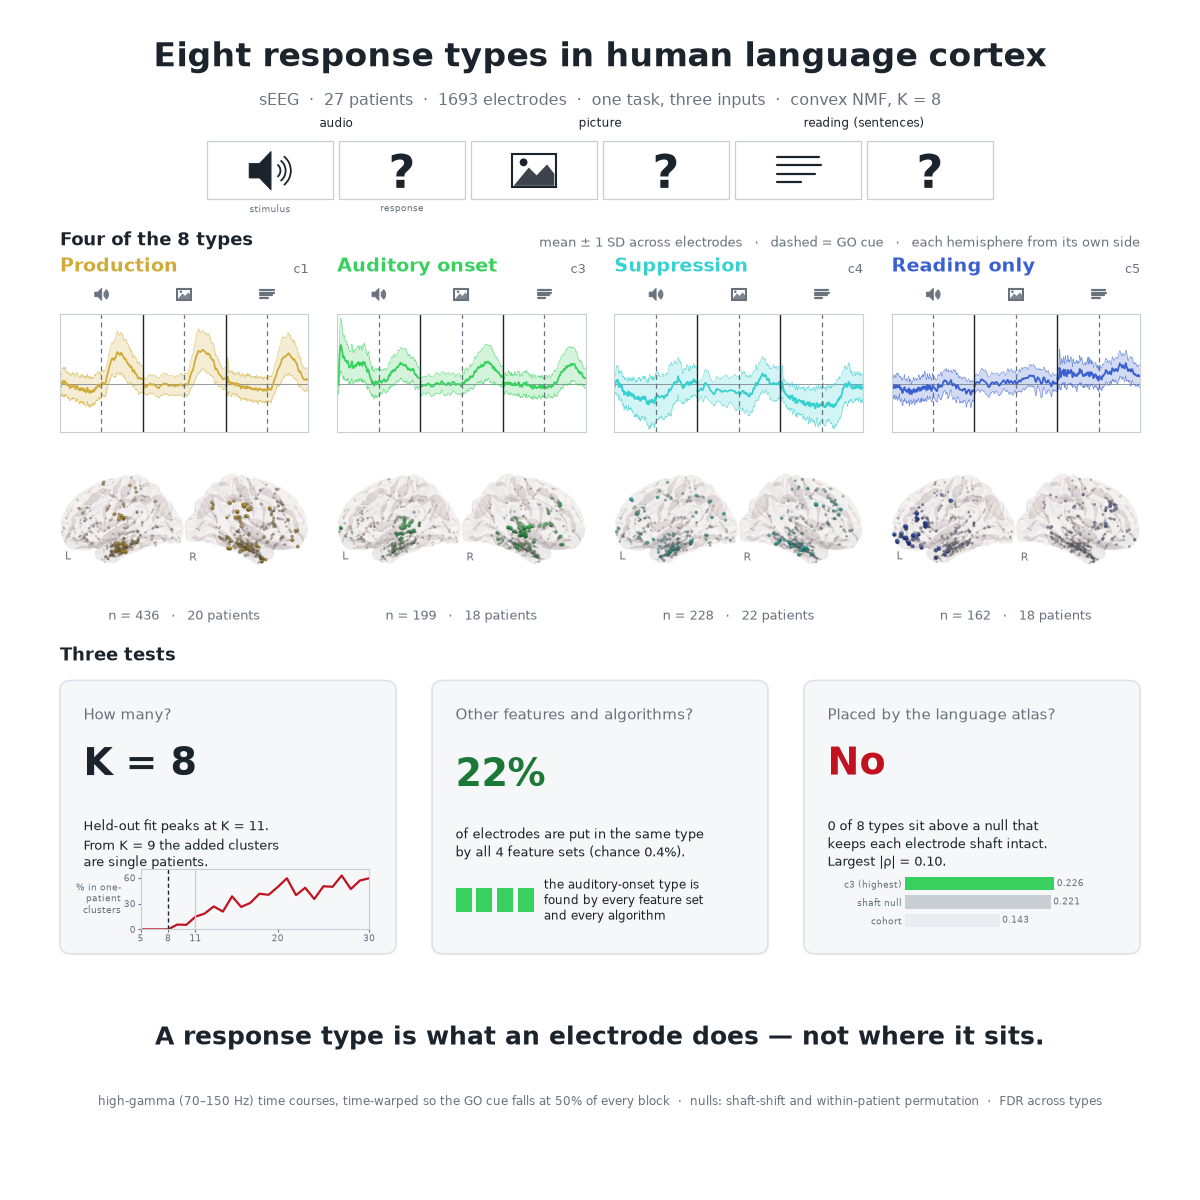
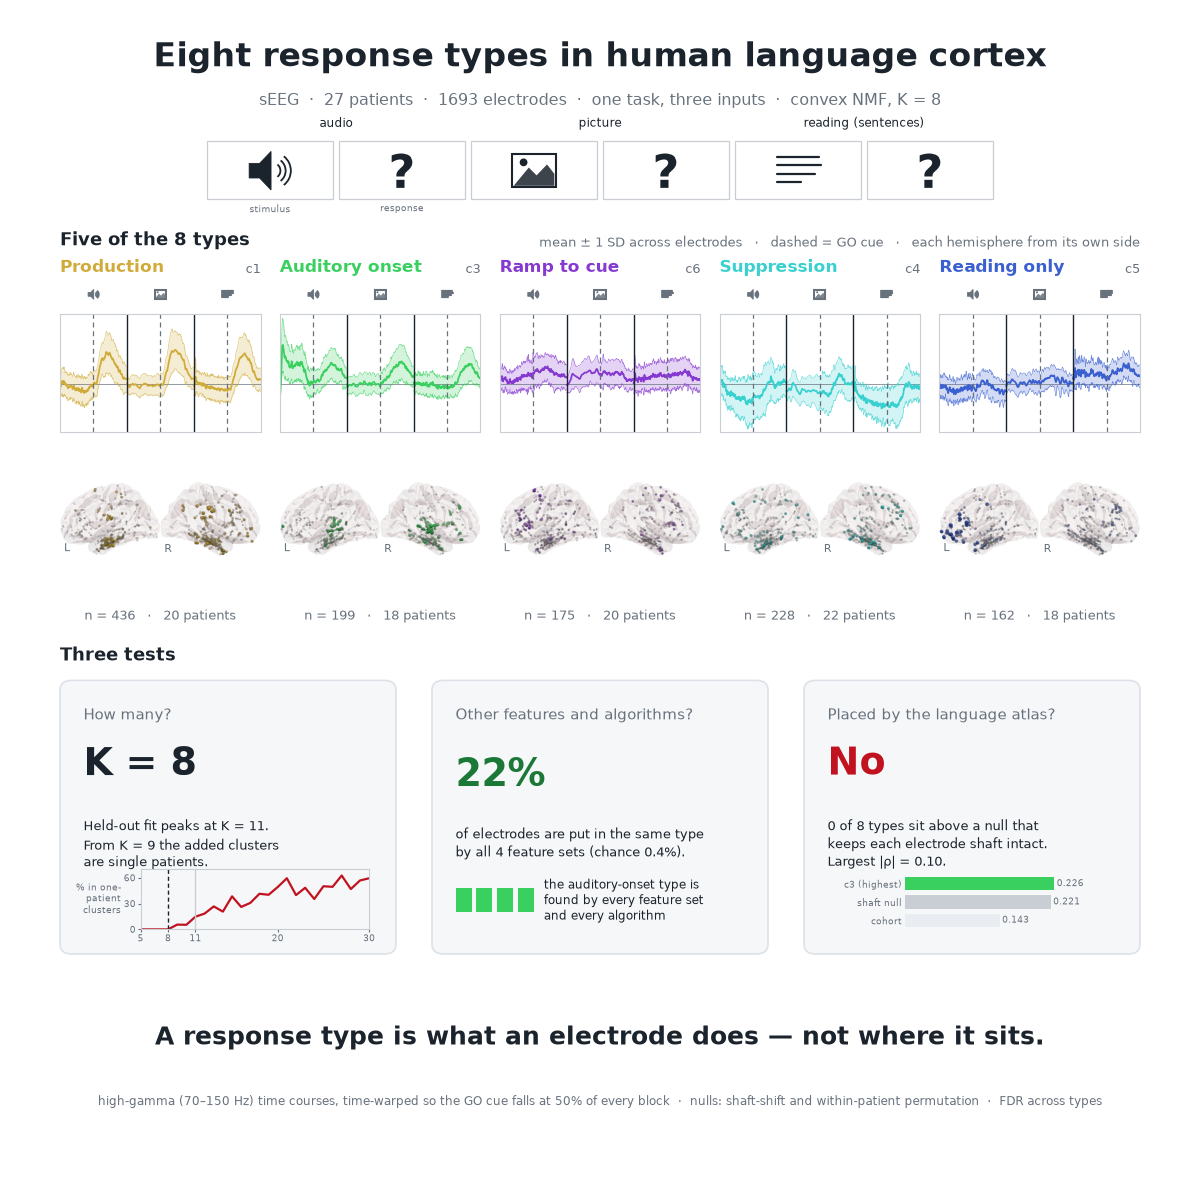
Graphical abstract: a fifth type, the ramp to the cue - measured, not eyeballed
The cluster whose mean rises toward the GO cue in every condition is c6, not c7:
c7's rise is at the cue and its pre-cue slope is negative, it only looks like a
ramp in the audio block. The label is now checked against a measured ramp index
(last fifth before the cue minus the first fifth of the block, averaged over
conditions) and the script refuses to draw if the named cluster is not the
largest. c6 is also the only cluster with a positive ramp in all three.

Named "Ramp to cue", not "premotor": the coordinate table has no gyral labels,
and a type named by its anatomy would contradict the abstract's own sentence.
By mean MNI position it is the most dorsal cluster, near y = 0, left-leaning -
a candidate, recorded as such in the caption.

diff --git a/02_FBM_Clustering/make_graphical_abstract.py b/02_FBM_Clustering/make_graphical_abstract.py
@@ -15,12 +15,20 @@ it, seen from each hemisphere's own side. Then the three tests the paper puts th
 how many, do they survive other methods, are they anatomy - each answered with one
 number. Then the sentence the paper is about.
 
-The four type NAMES are descriptive labels read off the centroid shapes (a rise after
-the GO cue in every condition is "production"; a sharp onset at the start of the audio
+The type NAMES are descriptive labels read off the centroid shapes (a rise after the
+GO cue in every condition is "production"; a sharp onset at the start of the audio
 block is "auditory onset"; a dip below baseline during the stimulus is "suppression"; a
-response in the reading block only is "reading only"). They are not computed and the
-caption says so. The cluster ids they attach to are checked against the FIG 1a patient
-table, so a re-fit that renumbered the clusters fails here rather than mislabelling.
+response in the reading block only is "reading only"), and the caption says so. One is
+MEASURED rather than read: "ramp to cue" is the cluster whose mean rises most over the
+stretch before the GO cue, averaged over conditions, and the script refuses to run if
+the cluster drawn under that name is not the one the measurement picks. The eye picked
+the wrong cluster for it the first time, which is why. The cluster ids in SHOW are also
+checked against the FIG 1a patient table, so a re-fit that renumbered the clusters
+fails here rather than mislabelling.
+
+The ramp cluster is the candidate premotor type. It is named by what it does because the
+coordinate table has no gyral labels and because naming a type by its anatomy would
+contradict the sentence at the bottom of the abstract.
 """
 from __future__ import annotations
 
@@ -47,7 +55,9 @@ INK, MUTED, GREY, RED, GREEN = P2.INK, P2.MUTED, P2.GREY, P2.RED, P2.GREEN
 FSET, K = "concat_hg", 8
 PX = 1200                                  # Cell Reports: 1200 x 1200, minimal text
 # cluster id -> the label its shape earns. Checked against FIG 1a below.
-SHOW = [(1, "Production"), (3, "Auditory onset"), (4, "Suppression"), (5, "Reading only")]
+SHOW = [(1, "Production"), (3, "Auditory onset"), (6, "Ramp to cue"),
+        (4, "Suppression"), (5, "Reading only")]
+RAMP_ID = 6     # "Ramp to cue" is checked against a MEASURED ramp index in main()
 TILE_BG, TILE_EC = "#f6f7f9", "#dde2e8"
 
 
@@ -109,6 +119,19 @@ def main() -> int:
     vlim = float(np.percentile(np.abs(means), 99.0))
     ylim = (float((means - sds).min()) * 1.06, float((means + sds).max()) * 1.06)
 
+    # THE PRE-CUE RAMP, MEASURED: the mean over the last fifth of the block before the
+    # GO cue minus the mean over its first fifth, averaged over the three conditions.
+    # The cluster labelled "Ramp to cue" must be the one this picks, or the label is
+    # an eye's opinion - and the eye picked the wrong cluster the first time (c7's rise
+    # is AT the cue and its pre-cue slope is negative; c6 rises before it in all three).
+    nt = d["nt"]
+    g0, g1 = int(0.20 * nt), int(0.50 * nt)
+    ramp = np.array([(means[j][:, 0, int(0.30 * nt):g1].mean(1)
+                      - means[j][:, 0, :g0].mean(1)).mean() for j in range(K)])
+    if int(ramp.argmax()) != RAMP_ID:
+        raise SystemExit(f"largest pre-cue ramp is c{int(ramp.argmax())}, not "
+                         f"c{RAMP_ID} - relabel SHOW before drawing")
+
     # the labels in SHOW belong to THIS numbering: refuse to draw if the run has moved
     pc = pd.read_csv(need(OUT / f"FIG1a_{FSET}_cnmf_K{K}_patients.csv"))
     sizes = np.bincount(d["lab"], minlength=K)
@@ -131,17 +154,17 @@ def main() -> int:
     P2.trial_strip(fig.add_axes([0.17, 0.828, 0.66, 0.062]), d)
 
     # ---- four of the eight types -------------------------------------------------
-    fig.text(0.05, 0.792, f"Four of the {K} types", fontsize=13, weight="bold",
+    fig.text(0.05, 0.792, f"Five of the {K} types", fontsize=13, weight="bold",
              color=INK, va="bottom")
     fig.text(0.95, 0.792, "mean ± 1 SD across electrodes   ·   dashed = GO cue   ·   "
              "each hemisphere from its own side", fontsize=9, color=MUTED, ha="right",
              va="bottom")
-    gap, x0, x1 = 0.024, 0.05, 0.95
-    w = (x1 - x0 - 3 * gap) / 4
+    gap, x0, x1 = 0.016, 0.05, 0.95
+    w = (x1 - x0 - (len(SHOW) - 1) * gap) / len(SHOW)
     for i, (j, name) in enumerate(SHOW):
         bx = x0 + i * (w + gap)
         col = P2.cluster_col(j, K)
-        fig.text(bx, 0.770, name, fontsize=13.5, weight="bold", color=col, va="bottom")
+        fig.text(bx, 0.770, name, fontsize=12.2, weight="bold", color=col, va="bottom")
         fig.text(bx + w, 0.770, f"c{j}", fontsize=9, color=MUTED, ha="right",
                  va="bottom")
         axc = fig.add_axes([bx, 0.640, w, 0.098])
@@ -259,6 +282,16 @@ def main() -> int:
         "TYPE LABELS are descriptive, read off the centroid shapes, not computed:",
         f"  {names}",
         "  Cluster ids were checked against FIG1a_..._patients.csv (sizes match).",
+        "",
+        "'Ramp to cue' is the one label that is MEASURED, not read: the mean over the",
+        "last fifth of the block before the GO cue minus the mean over its first fifth,",
+        "averaged over the three conditions. The cluster drawn under that name must be",
+        f"the largest, or this script refuses to run. Ranked (dB):",
+        "  " + "   ".join(f"c{j} {ramp[j]:+.2f}" for j in np.argsort(-ramp)),
+        f"  c{RAMP_ID} is also the only cluster whose ramp is positive in all three "
+        "conditions. It is the candidate premotor type; the coordinate table carries",
+        "  no gyral labels, so that stays a candidate. By mean MNI position it is the",
+        "  most dorsal cluster and sits near y = 0, left-leaning.",
         "",
         "NUMBERS and where each comes from:",
         f"  K = {K}; held-out peak K = {n['k_peak']}      heldout_peaks_cnmf.csv",
